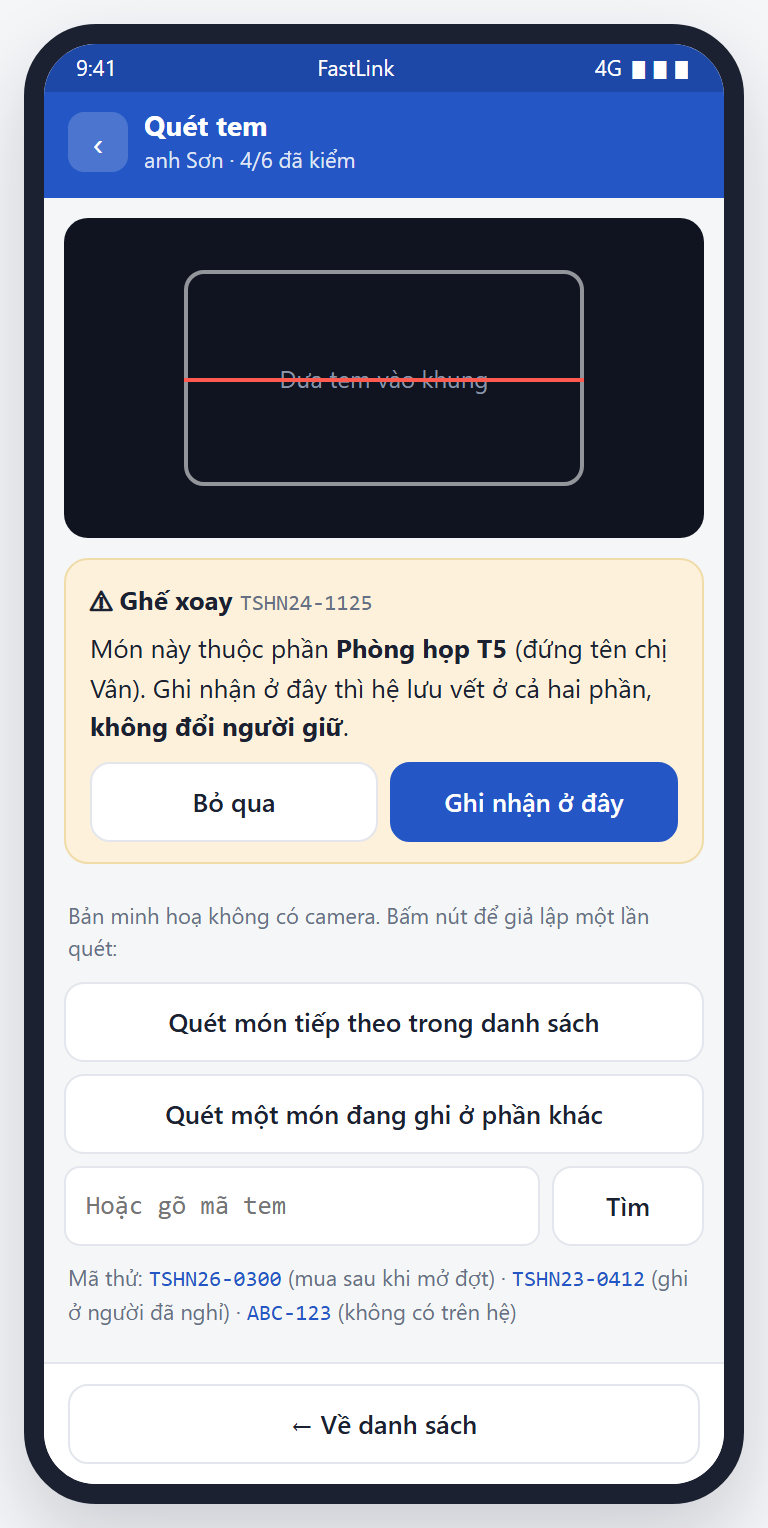
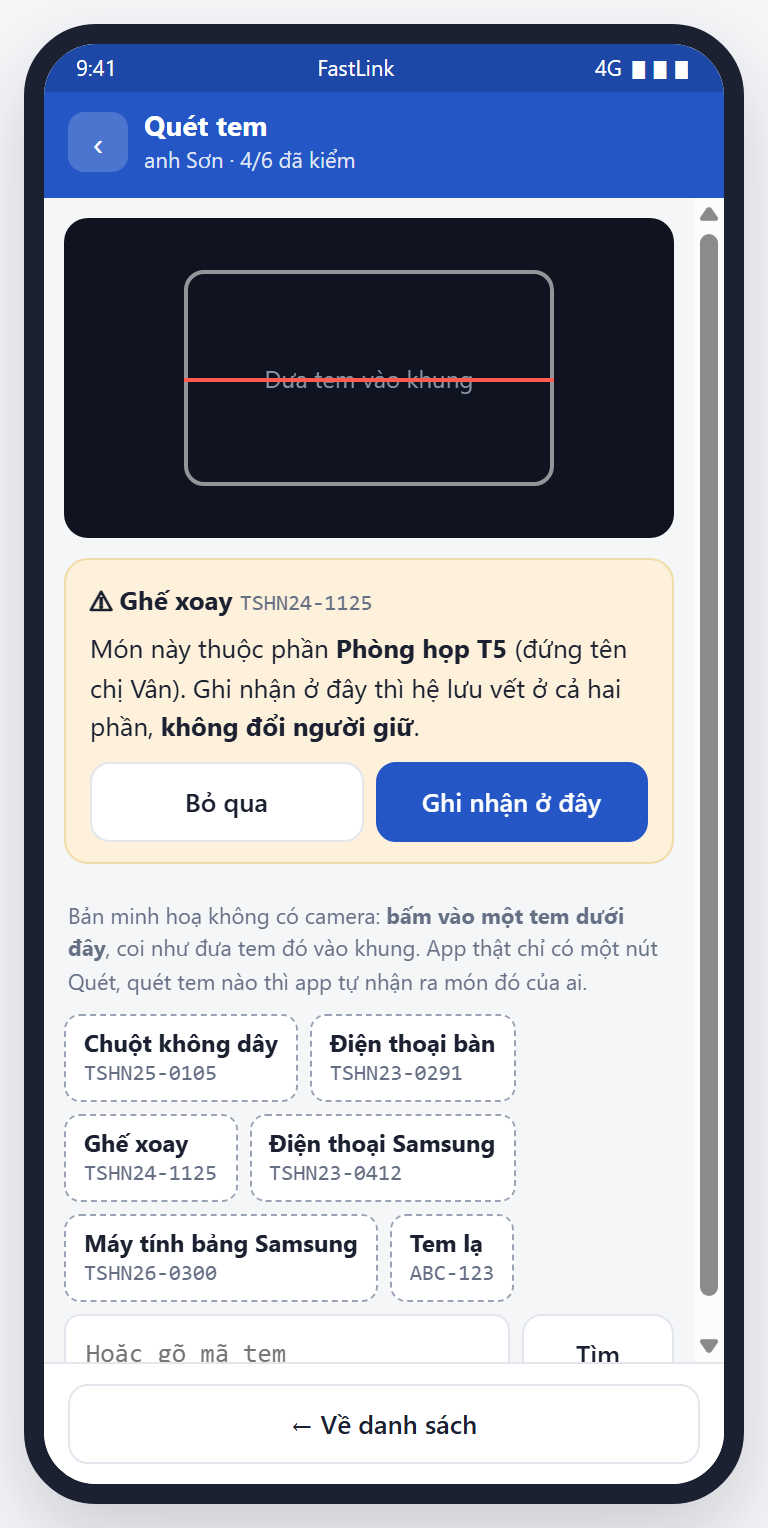
App minh hoạ: một nút Quét như app thật, bỏ nút giả lập riêng
Màn quét chỉ còn khung camera và hàng "tem trước mặt": bấm vào tem nào coi như
quét tem đó, app tự nhận ra là đồ của phần này, đồ chỗ khác, đồ người đã nghỉ,
món ngoài đợt hay tem lạ. Nút Quét ở màn Thêm tài sản mở đúng màn quét này;
Thêm tài sản ghi rõ là cho lúc tem mất hoặc mờ.

diff --git a/minh-hoa-tao-dot-kiem-ke.html b/minh-hoa-tao-dot-kiem-ke.html
@@ -166,6 +166,10 @@ h3{font-size:13px;margin:16px 0 8px}
 @media (prefers-reduced-motion:reduce){.cam::after{animation:none;top:80px}}
 .ph-sheet{position:absolute;inset:0;background:rgba(15,20,35,.45);display:flex;align-items:flex-end;z-index:2}
 .ph-sheet .in{background:#fff;border-radius:16px 16px 0 0;padding:14px 14px 16px;width:100%;display:flex;flex-direction:column;gap:6px;max-height:88%;overflow-y:auto}
+.tem-ds{display:flex;flex-wrap:wrap;gap:6px;padding:0 10px}
+.tem{border:1px dashed #9aa3b5;background:#fff;border-radius:8px;padding:6px 9px;cursor:pointer;text-align:left;font-size:12px;line-height:1.3;max-width:100%}
+.tem:hover{border-color:var(--primary);background:var(--primary-soft)}
+.tem .mono{display:block;font-size:11px;color:var(--muted)}
 .app-side{display:flex;flex-direction:column;gap:12px;min-width:0}
 .app-side .guide{margin:0}
 .app-side .giai p{margin:0 0 8px}
@@ -278,7 +282,7 @@ h3{font-size:13px;margin:16px 0 8px}
             <ol>
               <li>Bấm đợt <b>KK0012</b>.</li>
               <li>Tab <b>Người</b>, bấm <b>anh Sơn</b>: hiện 6 món anh Sơn đang giữ, tất cả "Chưa kiểm". Hàng nút thứ hai lọc nhanh phần <b>Chưa kiểm</b>, <b>Đang kiểm</b>, <b>Xong</b>.</li>
-              <li>Bấm <b>Quét tem</b>, bấm "Quét món tiếp theo" vài lần. Thử "Quét một món đang ghi ở phần khác" rồi <b>Ghi nhận</b>. Thử mã <span class="mono">ABC-123</span>: bị từ chối.</li>
+              <li>Bấm <b>Quét tem</b>. Bản minh hoạ không có camera: bấm vào một tem ở hàng "tem trước mặt", coi như quét tem đó. Đồ của anh Sơn thì tự <b>Có</b>. Chiếc <b>ghế xoay</b> đang ghi ở Phòng họp T5 thì app cảnh báo, bấm <b>Ghi nhận ở đây</b>. <b>Tem lạ</b> ABC-123 thì bị từ chối.</li>
               <li>Về danh sách, bấm một món chưa kiểm, chọn <b>Không thấy</b>. Thử <b>Hỏng</b>: phải chụp ảnh mới lưu được. Thử tích <b>cần in lại tem</b>.</li>
               <li>Bấm <b>+ Thêm tài sản</b>, gõ "máy tính bảng": ra món đang ghi ở chị Hà và món mua sau khi mở đợt. Chọn một món, bấm <b>Ghi nhận ở đây</b>. Thêm nhầm thì bấm vào món, "Bỏ khỏi phần này".</li>
               <li>Bấm <b>Xong phần</b>: anh Sơn nhận phiếu XN0153, menu "NV xác nhận kiểm kê" hiện số 1.</li>
@@ -801,11 +805,18 @@ function timMa(raw) {
   if (NGOAI_DOT[ma]) { A.kq = { loai:'ngoai', ma, ten:NGOAI_DOT[ma].ten, txt:esc(NGOAI_DOT[ma].ghi) + '. Ghi nhận là món thêm.' }; return; }
   A.kq = { loai:'khong', ma };
 }
-function quetKhac() {
-  const p = phanById(S.app.phan);
-  const g = S.items.find(i => i.nguon === 'DS' && i.kq === 'CHUA' && i.phan !== p.id && ['v-t5','v-t4','v-ph5','p-dong','p-van'].includes(i.phan) && !S.items.some(t => t.phan === p.id && t.ma === i.ma));
-  if (!g) { toast('Hết món mẫu để giả lập'); return; }
-  timMa(g.ma);
+function temTruocMat(p) {
+  // tem đang nằm trước mặt người kiểm: đồ của phần này chưa quét, một món của phần khác, đồ người đã nghỉ, món ngoài đợt, tem lạ
+  const daCo = ma => S.items.some(t => t.phan === p.id && t.ma === ma);
+  const cua = dsCua(p.id).filter(i => i.kq === 'CHUA').slice(0, 3).map(i => ({ ma:i.ma, ten:i.ten, loai:'cua' }));
+  const g = S.items.find(i => i.nguon === 'DS' && i.kq === 'CHUA' && i.phan !== p.id && ['v-ph5','v-t5','v-t4','p-dong','p-van'].includes(i.phan) && !daCo(i.ma));
+  const tem = [...cua];
+  if (g) tem.push({ ma:g.ma, ten:g.ten, loai:'khac' });
+  const n = S.nghi.find(v => !daCo(v.ma)); if (n) tem.push({ ma:n.ma, ten:n.ten, loai:'nghi' });
+  const ng = Object.entries(NGOAI_DOT).find(([ma]) => !daCo(ma)); if (ng) tem.push({ ma:ng[0], ten:ng[1].ten, loai:'ngoai' });
+  tem.push({ ma:'ABC-123', ten:'Tem lạ', loai:'la' });
+  return (cua.length ? '' : '<div class="ph-sub" style="width:100%">Đã quét hết đồ trong danh sách của phần này.</div>')
+    + tem.map(t => `<button class="tem" data-act="a-thu" data-ma="${t.ma}" data-loai="${t.loai}"><b>${esc(t.ten)}</b><span class="mono">${t.ma}</span></button>`).join('');
 }
 function ghiNhan() {
   const A = S.app, p = phanById(A.phan), r = A.kq, luc = bayGio();
@@ -1006,16 +1017,12 @@ function veApp() {
     back = bk; tt = 'Quét tem'; sub = `${esc(p.ten)} · ${ds.filter(daKiem).length}/${ds.length} đã kiểm`;
     const card = theKq(r, p);
     body = `<div class="cam">Đưa tem vào khung</div>${card}
-      <div class="ph-note">Bản minh hoạ không có camera. Bấm nút để giả lập một lần quét:</div>
-      <div style="padding:0 10px;display:flex;flex-direction:column;gap:6px">
-        <button class="ph-btn" data-act="a-quet-tiep">Quét món tiếp theo trong danh sách</button>
-        <button class="ph-btn" data-act="a-quet-khac">Quét một món đang ghi ở phần khác</button>
-        <div style="display:flex;gap:6px"><input class="input mono" id="appMa" placeholder="Hoặc gõ mã tem" style="height:40px"><button class="ph-btn" style="width:76px;flex:0 0 76px" data-act="a-tim">Tìm</button></div>
-      </div>
-      <div class="ph-note">Mã thử: <button class="link mono" data-act="a-thu" data-ma="TSHN26-0300">TSHN26-0300</button> (mua sau khi mở đợt) · <button class="link mono" data-act="a-thu" data-ma="TSHN23-0412">TSHN23-0412</button> (ghi ở người đã nghỉ) · <button class="link mono" data-act="a-thu" data-ma="ABC-123">ABC-123</button> (không có trên hệ)</div>`;
+      <div class="ph-note">Bản minh hoạ không có camera: <b>bấm vào một tem dưới đây</b>, coi như đưa tem đó vào khung. App thật chỉ có một nút Quét, quét tem nào thì app tự nhận ra món đó của ai.</div>
+      <div class="tem-ds">${temTruocMat(p)}</div>
+      <div style="padding:6px 10px 0;display:flex;gap:6px"><input class="input mono" id="appMa" placeholder="Hoặc gõ mã tem" style="height:40px"><button class="ph-btn" style="width:76px;flex:0 0 76px" data-act="a-tim">Tìm</button></div>`;
     foot = '<button class="ph-btn" data-act="a-ve-ds">← Về danh sách</button>';
     buoc = 'Bước 4'; ten = 'Quét tem';
-    giai = `<p>App tra mã trong <b>bản chụp của đợt</b>:</p>
+    giai = `<p>Chỉ có <b>một nút Quét</b>. Người kiểm không cần biết trước món đó của ai: app tra mã trong <b>bản chụp của đợt</b> rồi tự xử lý:</p>
       <div class="mini tblwrap"><table><tbody>
         <tr><td class="wrap" style="min-width:120px">Món thuộc phần đang kiểm</td><td class="wrap">Tự ghi <b>Có</b></td></tr>
         <tr><td class="wrap">Món thuộc phần khác</td><td class="wrap">Báo món đang ghi ở đâu. Bấm <b>Ghi nhận</b> thì lưu vết ở cả hai phần, không đổi người giữ.</td></tr>
@@ -1041,12 +1048,12 @@ function veApp() {
         ? tim.slice(0, 15).map(k => `<div class="ph-row" data-act="a-thu" data-ma="${k.ma}"><div><b>${esc(k.ten)}</b><div class="ph-sub mono">${k.ma}</div><div class="ph-sub">${esc(k.o)}</div></div><div class="r">${daCo.has(k.ma) ? pill('Đã thêm', 'p-mute') : pill('Chọn', 'p-info')}</div></div>`).join('')
           + (tim.length > 15 ? `<div class="ph-note">Hiện 15/${tim.length} kết quả, gõ cụ thể hơn.</div>` : '')
         : `<div class="ph-card bad">Không tìm thấy "${esc(A.qthem)}" trên hệ. Không thêm được: quản lý phải tạo tài sản trên web trước.</div>`;
-    } else kq = '<div class="ph-note">Bấm <b>Quét</b> để quét tem (bản minh hoạ giả lập một món đang ghi ở phần khác). Tem mất thì gõ ít nhất 2 ký tự, thử: "máy tính bảng", "laptop", "TSHN26".</div>';
-    body = `<div class="ph-info">Dùng khi người được kiểm đang cầm món <b>không có trong danh sách</b> của họ (ví dụ anh Tú cầm chiếc laptop lấy từ kho). <b>Quét tem</b>, hoặc tem mất thì tìm theo mã, tên. Hệ chỉ ghi nhận, <b>không đổi người giữ</b>.</div>
-      <div class="ph-search ph-loc"><button class="ph-btn pri" style="flex:0 0 92px;width:92px" data-act="a-them-quet" title="Bản minh hoạ: giả lập quét tem một món đang ghi ở phần khác">📷 Quét</button><input class="input" data-app="qthem" value="${esc(A.qthem || '')}" placeholder="hoặc gõ mã, tên tài sản"></div>${theKq(A.kq, p)}${kq}`;
+    } else kq = '<div class="ph-note">Gõ ít nhất 2 ký tự. Thử: "máy tính bảng", "laptop", "TSHN26".</div>';
+    body = `<div class="ph-info">Dùng khi người được kiểm đang cầm món <b>không có trong danh sách</b> của họ (ví dụ anh Tú cầm chiếc laptop lấy từ kho) mà <b>tem mất hoặc mờ</b>. Còn tem thì không cần vào đây: bấm Quét, app tự cảnh báo món đó đang ghi ở đâu. Hệ chỉ ghi nhận, <b>không đổi người giữ</b>.</div>
+      <div class="ph-search ph-loc"><button class="ph-btn pri" style="flex:0 0 92px;width:92px" data-act="a-them-quet" title="Mở màn quét">📷 Quét</button><input class="input" data-app="qthem" value="${esc(A.qthem || '')}" placeholder="hoặc gõ mã, tên tài sản"></div>${theKq(A.kq, p)}${kq}`;
     foot = '<button class="ph-btn" data-act="a-ve-ds">← Về danh sách</button>';
     buoc = 'Bước 3b'; ten = 'Thêm tài sản cho người được kiểm';
-    giai = `<p>Người được kiểm đưa ra một món mà danh sách của họ không có. Bấm <b>+ Thêm tài sản</b>: <b>quét tem</b> là nhanh nhất; tem mất hoặc mờ thì tìm theo mã hoặc tên ngay trên cùng màn.</p><p>Chọn món thì app báo món đang ghi ở đâu, bấm <b>Ghi nhận ở đây</b>. Món vẫn thuộc phần cũ, phần cũ tự hiện "thấy ở phần ${esc(p.ten)}".</p><p><b>Không đổi người giữ.</b> Muốn chuyển hẳn thì hành chính lập phiếu sau đợt, từ báo cáo ngoại lệ. Thêm nhầm thì bấm vào món, chọn "Bỏ khỏi phần này".</p><p>Mã hoặc tên không có trên hệ thì không thêm được.</p>`;
+    giai = `<p>Người được kiểm đưa ra một món mà danh sách của họ không có. Còn tem thì chỉ cần <b>Quét</b> như mọi món: app tự nhận ra món đó không thuộc phần này và cảnh báo. Màn <b>+ Thêm tài sản</b> dành cho lúc <b>tem mất hoặc mờ</b>: tìm theo mã hoặc tên.</p><p>Chọn món thì app báo món đang ghi ở đâu, bấm <b>Ghi nhận ở đây</b>. Món vẫn thuộc phần cũ, phần cũ tự hiện "thấy ở phần ${esc(p.ten)}".</p><p><b>Không đổi người giữ.</b> Muốn chuyển hẳn thì hành chính lập phiếu sau đợt, từ báo cáo ngoại lệ. Thêm nhầm thì bấm vào món, chọn "Bỏ khỏi phần này".</p><p>Mã hoặc tên không có trên hệ thì không thêm được.</p>`;
   }
   vePhone(back, tt, sub, body, foot, sheet, A.man + A.phan);
   $('appBuoc').textContent = buoc; $('appTen').textContent = ten; $('appGiai').innerHTML = giai;
@@ -1071,7 +1078,7 @@ function appAct(a, el, e) {
   if (a === 'a-luu-hong') { const i = monApp(); if (i && A.anh) { ghiKq(i, 'HONG', '', A.ghiChu); i.anh = true; datTem(i, !!A.tem); } dongSheet(); }
   if (a === 'a-bo-them') { const i = monApp(); if (i) { S.items.splice(S.items.indexOf(i), 1); if (i.gocRef) Object.assign(i.gocRef, i.gocTruoc); toast(`Đã bỏ ${i.ten} khỏi phần này`); } dongSheet(); }
   if (a === 'a-them') Object.assign(A, { man:'them', kq:null, qthem:'' });
-  if (a === 'a-them-quet') { A.qthem = ''; quetKhac(); }
+  if (a === 'a-them-quet') Object.assign(A, { man:'quet', kq:null, qthem:'' });
   if (a === 's-phieu') Object.assign(A, { sonMan:'ct', sonPhieu:el.dataset.ma, sonPd:false, sonChon:{}, sonLyDo:'', sonErr:false, sonXn:false });
   if (a === 's-back') Object.assign(A, { sonMan:'ds', sonPd:false, sonXn:false });
   if (a === 's-mo') A.sonMo[el.dataset.id] = !A.sonMo[el.dataset.id];
@@ -1085,8 +1092,6 @@ function appAct(a, el, e) {
   if (a === 's-ok') { dongYSon(); A.sonXn = false; ve(); toast('Đã xác nhận. Cảm ơn anh.'); return; }
   if (a === 'a-quet') Object.assign(A, { man:'quet', kq:null });
   if (a === 'a-ve-ds') Object.assign(A, { man:'ds', kq:null });
-  if (a === 'a-quet-tiep') { const i = dsCua(A.phan).find(v => v.kq === 'CHUA'); if (i) timMa(i.ma); else A.kq = { loai:'het' }; }
-  if (a === 'a-quet-khac') quetKhac();
   if (a === 'a-tim') timMa($('appMa').value);
   if (a === 'a-thu') timMa(el.dataset.ma);
   if (a === 'a-bo') A.kq = null;

diff --git a/kiem-ke-mo-hinh-moi-phan-tich.html b/kiem-ke-mo-hinh-moi-phan-tich.html
@@ -393,8 +393,8 @@ a{color:var(--accent)}
   <li><b class="t">Bấm vào anh Sơn</b>Hiện danh sách tài sản anh Sơn đang giữ, ví dụ 6 món, tất cả đang "Chưa kiểm".</li>
   <li><b class="t">Quét tem từng món</b>Quét trúng món nào thì món đó tự thành <b>Có</b>, thanh tiến độ tăng 1/6, 2/6…</li>
   <li><b class="t">Món tìm không thấy</b>Bấm vào món, chọn <b>Không thấy</b>, ghi thêm nếu cần ("anh Sơn nói đang mang đi sửa"). Hỏng thì chọn <b>Hỏng</b>: phải chụp ảnh mới lưu được. Còn dùng nhưng chờ thanh lý thì chọn <b>Có · Chờ thanh lý</b>.</li>
-  <li><b class="t">Quét phải món không thuộc anh Sơn</b>App báo món đó đang ghi ở đâu. Bấm <b>Ghi nhận ở đây</b>: hệ lưu vết ở cả hai phần, <b>không đổi người giữ</b>.</li>
-  <li><b class="t">Anh Sơn đang cầm món không có trong danh sách</b>Bấm <b>+ Thêm tài sản</b>: quét tem, hoặc tem mất thì tìm theo mã hoặc tên ngay trên màn đó. Chọn món, bấm <b>Ghi nhận ở đây</b>. Giống như quét được món của phần khác. Thêm nhầm thì bấm vào món, chọn "Bỏ khỏi phần này". Không có trên hệ thì không thêm được.</li>
+  <li><b class="t">Quét phải món không thuộc anh Sơn</b>Vẫn là nút Quét như mọi món, không có nút riêng. App tự nhận ra và báo món đó đang ghi ở đâu. Bấm <b>Ghi nhận ở đây</b>: hệ lưu vết ở cả hai phần, <b>không đổi người giữ</b>.</li>
+  <li><b class="t">Anh Sơn đang cầm món không có trong danh sách</b>Còn tem thì cứ quét như bước 6. Tem mất hoặc mờ thì bấm <b>+ Thêm tài sản</b>, tìm theo mã hoặc tên, chọn món, bấm <b>Ghi nhận ở đây</b>. Kết quả giống như quét được. Thêm nhầm thì bấm vào món, chọn "Bỏ khỏi phần này". Không có trên hệ thì không thêm được.</li>
   <li><b class="t">Kiểm hết thì bấm Xong phần</b>Nút chỉ bấm được khi không còn món "Chưa kiểm". Có nút tắt "Đánh dấu còn lại là Không thấy".</li>
   <li><b class="t">Sau đó là việc của anh Sơn</b>Khi <b>mọi phần</b> có đồ của anh Sơn đã xong (phần anh Sơn và Tầng 3), anh nhận phiếu, vào menu "NV xác nhận kiểm kê", bấm Đồng ý hoặc Không đồng ý (mục 06, bước 5).</li>
 </ol>
@@ -410,7 +410,7 @@ a{color:var(--accent)}
 
 <div class="grid-3 figs phones" style="margin-top:4px">
   <figure class="fig"><img src="anh-minh-hoa/app-them.png" alt="App: màn Thêm tài sản, tìm máy tính bảng ra món đang ghi ở chị Hà và món có trên hệ nhưng không có trong đợt" loading="lazy">
-  <figcaption>+ Thêm tài sản: quét tem, hoặc tem mất thì tìm theo mã, tên. App ghi rõ món đang ở đâu.</figcaption></figure>
+  <figcaption>+ Thêm tài sản: dành cho lúc tem mất hoặc mờ, tìm theo mã, tên. App ghi rõ món đang ở đâu.</figcaption></figure>
   <figure class="fig"><img src="anh-minh-hoa/app-chon-ket-qua.png" alt="App: bấm vào một món, chọn kết quả Có, Chờ thanh lý, Hỏng phải chụp ảnh, Không thấy, ô tem cần in lại" loading="lazy">
   <figcaption>Bấm vào một món: chọn kết quả, tình trạng, đánh dấu tem cần in lại.</figcaption></figure>
   <figure class="fig"><img src="anh-minh-hoa/app-nv-xac-nhan.png" alt="App đăng nhập bằng anh Sơn: chi tiết phiếu XN0153, món có vấn đề lên đầu, nút Không đồng ý và Đồng ý" loading="lazy">
